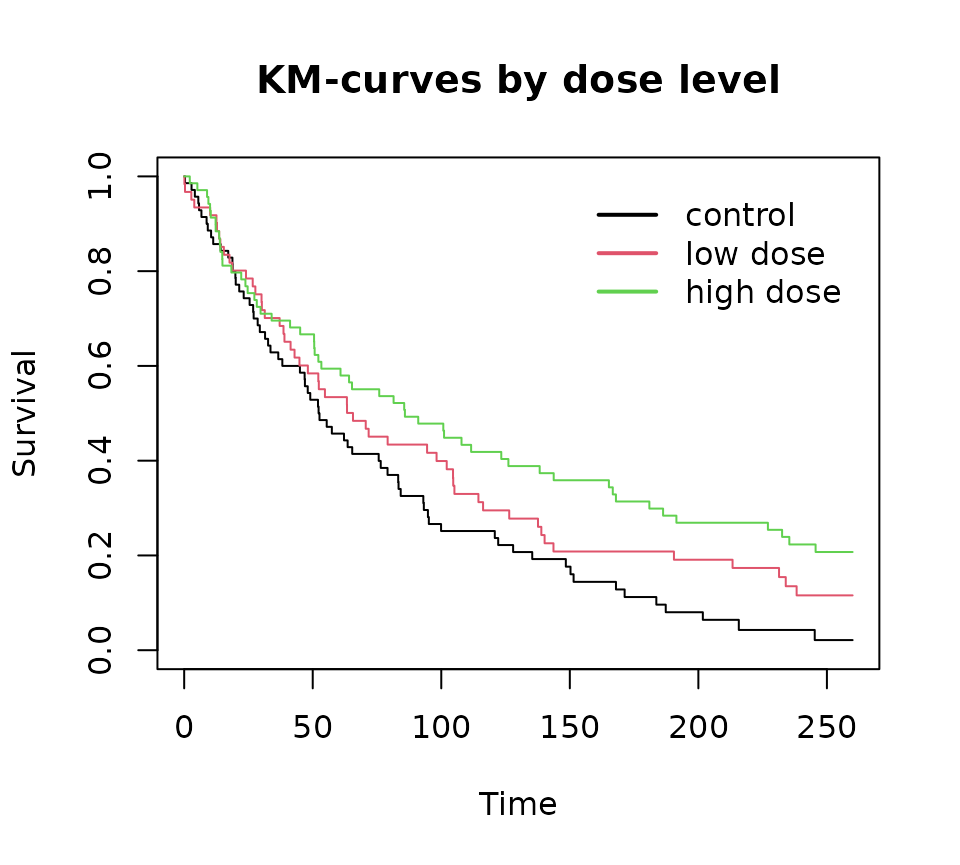
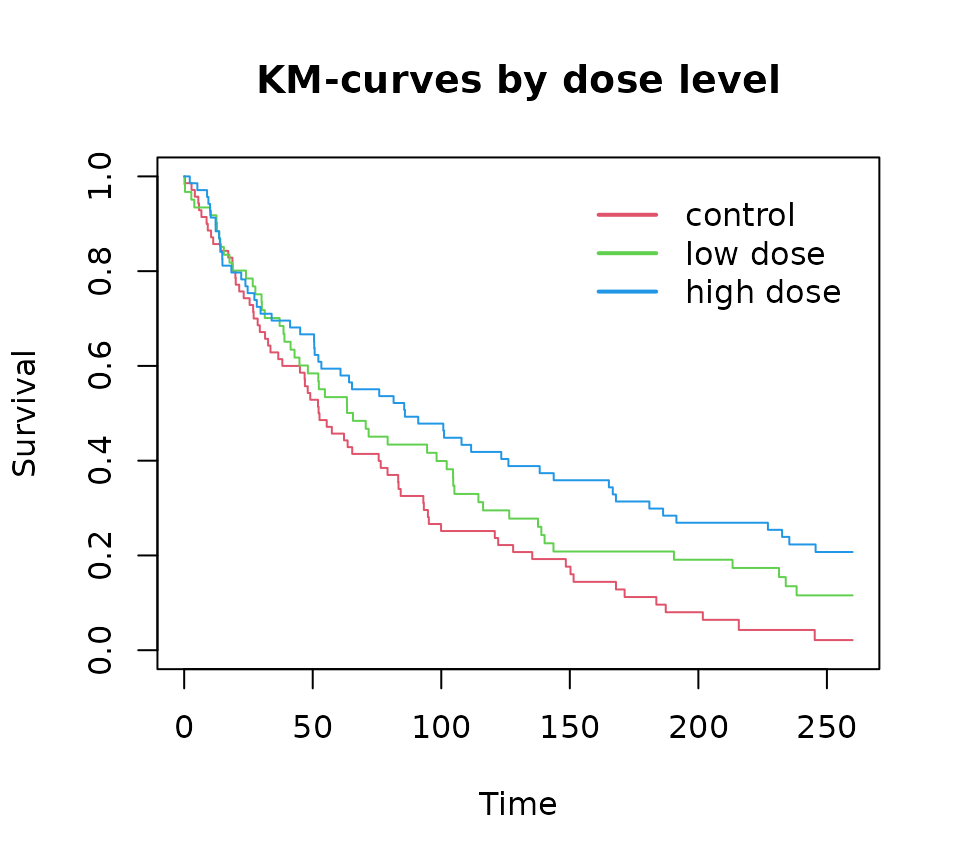
Deploying to gh-pages from @ Novartis/dpasurv@3893182772eef3cf35a96581ddaac438e9e7d16f 🚀

diff --git a/articles/dpa.html b/articles/dpa.html
@@ -83,8 +83,8 @@ time-to-event outcome. A thorough review of the methodology can be found
 in the tutorial paper of <span class="citation">(<a href="#ref-dpasurv">Kormaksson et al. 2024</a>)</span>. In this vignette
 we will outline the modeling framework and define direct, indirect and
 total effects in the context of dynamic path analysis. We then
-demonstrate the the main functionalities of the package, namely
-estimation, inference, and visualization.</p>
+demonstrate the main functionalities of the package, namely estimation,
+inference, and visualization.</p>
 </div>
 <div class="section level2">
 <h2 id="methods">2. Methods<a class="anchor" aria-label="anchor" href="#methods"></a>
@@ -196,9 +196,9 @@ cumtot(t) &amp;= \int_0^t \gamma_1(s)ds \label{eqn:total_effect}. \\
 \end{align}</annotation></semantics></math> One of the most appealing
 features of dynamic path analysis is the following analytical
 decomposition
-<math display="block" xmlns="http://www.w3.org/1998/Math/MathML"><semantics><mrow><mi>c</mi><mi>u</mi><mi>m</mi><mi>t</mi><mi>o</mi><mi>t</mi><mrow><mo stretchy="true" form="prefix">(</mo><mi>t</mi><mo stretchy="true" form="postfix">)</mo></mrow><mo>=</mo><mi>c</mi><mi>u</mi><mi>m</mi><mi>d</mi><mi>i</mi><mi>r</mi><mrow><mo stretchy="true" form="prefix">(</mo><mi>t</mi><mo stretchy="true" form="postfix">)</mo></mrow><mo>+</mo><mi>c</mi><mi>u</mi><mi>m</mi><mi>i</mi><mi>n</mi><mi>d</mi><mrow><mo stretchy="true" form="prefix">(</mo><mi>t</mi><mo stretchy="true" form="postfix">)</mo></mrow><mi>.</mi></mrow><annotation encoding="application/x-tex">
-cumtot(t) = cumdir(t) + cumind(t).
-</annotation></semantics></math></p>
+<math display="block" xmlns="http://www.w3.org/1998/Math/MathML"><semantics><mtable><mtr><mtd columnalign="right" style="text-align: right"><mi>c</mi><mi>u</mi><mi>m</mi><mi>t</mi><mi>o</mi><mi>t</mi><mrow><mo stretchy="true" form="prefix">(</mo><mi>t</mi><mo stretchy="true" form="postfix">)</mo></mrow></mtd><mtd columnalign="left" style="text-align: left"><mo>=</mo><mi>c</mi><mi>u</mi><mi>m</mi><mi>d</mi><mi>i</mi><mi>r</mi><mrow><mo stretchy="true" form="prefix">(</mo><mi>t</mi><mo stretchy="true" form="postfix">)</mo></mrow><mo>+</mo><mi>c</mi><mi>u</mi><mi>m</mi><mi>i</mi><mi>n</mi><mi>d</mi><mrow><mo stretchy="true" form="prefix">(</mo><mi>t</mi><mo stretchy="true" form="postfix">)</mo></mrow><mi>.</mi></mtd></mtr><mtr><mtd columnalign="right" style="text-align: right"></mtd></mtr></mtable><annotation encoding="application/x-tex">\begin{align}
+cumtot(t) &amp;= cumdir(t) + cumind(t). \\
+\end{align}</annotation></semantics></math></p>
 </div>
 <div class="section level3">
 <h3 id="estimation-and-inference">Estimation and inference<a class="anchor" aria-label="anchor" href="#estimation-and-inference"></a>
@@ -267,24 +267,24 @@ treated)</li>
 measured</li>
 <li>
 <em>stop:</em> Time that either marks the beginning of the next
-visit, or censoring (if event=0). Alternatively it marks the time of
+visit, or censoring (if event=0). Alternatively, it marks the time of
 event (if event=1)</li>
 <li>
 <em>event:</em> Binary event indicator</li>
 </ul>
 <p>At each visiting time, start, a new mediator measurement is taken.
 However, the mathematical assumption is that the intervals (start,stop]
-are open on the left and closed on the right, which means that the value
-of the mediator M for subject 1 at week 4 is taken to be 6.74. Under
-this assumption the risk of an event in the interval (start, stop] is
-influenced by the last observed mediator value.</p>
+are open on the left and closed on the right. Under this assumption the
+risk of an event in the interval (start, stop] is influenced by the last
+observed mediator value.</p>
 </div>
 <div class="section level3">
 <h3 id="implementation-in-a-nutshell">Implementation in a nutshell<a class="anchor" aria-label="anchor" href="#implementation-in-a-nutshell"></a>
 </h3>
 <p>Below we see the minimal code required for performing dynamic path
-analysis on <code>simdata</code>. It explores the direct effect of x on
-survival as well as the indirect effect mediated through M:</p>
+analysis on <code>simdata</code>. It explores the direct effect of
+treatment x on survival as well as the indirect effect mediated through
+M:</p>
 <div class="sourceCode" id="cb3"><pre class="downlit sourceCode r">
 <code class="sourceCode R"><span><span class="co"># Perform dynamic path analysis</span></span>
 <span><span class="va">s</span> <span class="op">&lt;-</span> <span class="fu"><a href="../reference/dpa.html">dpa</a></span><span class="op">(</span><span class="fu"><a href="../reference/Surv.html">Surv</a></span><span class="op">(</span><span class="va">start</span>, <span class="va">stop</span>, <span class="va">event</span><span class="op">)</span> <span class="op">~</span> <span class="va">M</span> <span class="op">+</span> <span class="va">x</span>, <span class="fu"><a href="https://rdrr.io/r/base/list.html" class="external-link">list</a></span><span class="op">(</span><span class="va">M</span> <span class="op">~</span> <span class="va">x</span><span class="op">)</span>, id <span class="op">=</span> <span class="st">"subject"</span>, data <span class="op">=</span> <span class="va">simdata</span>, boot.n <span class="op">=</span> <span class="fl">500</span><span class="op">)</span></span>
@@ -317,16 +317,15 @@ depth analysis of <code>simdata</code>.</p>
 <p>Firstly, we note that there is a dose response trend when looking at
 longitudinal trends in the subject mediator profiles:</p>
 <div class="sourceCode" id="cb4"><pre class="downlit sourceCode r">
-<code class="sourceCode R"><span><span class="fu"><a href="https://ggplot2.tidyverse.org/reference/ggplot.html" class="external-link">ggplot</a></span><span class="op">(</span>mapping<span class="op">=</span><span class="fu"><a href="https://ggplot2.tidyverse.org/reference/aes.html" class="external-link">aes</a></span><span class="op">(</span>x <span class="op">=</span> <span class="va">start</span>, y <span class="op">=</span> <span class="va">M</span>, group<span class="op">=</span><span class="va">dose</span>, colour<span class="op">=</span><span class="va">dose</span><span class="op">)</span>, data<span class="op">=</span><span class="va">simdata</span><span class="op">)</span> <span class="op">+</span> <span class="fu"><a href="https://ggplot2.tidyverse.org/reference/geom_smooth.html" class="external-link">geom_smooth</a></span><span class="op">(</span><span class="op">)</span></span></code></pre></div>
+<code class="sourceCode R"><span><span class="fu"><a href="https://ggplot2.tidyverse.org/reference/ggplot.html" class="external-link">ggplot</a></span><span class="op">(</span>mapping<span class="op">=</span><span class="fu"><a href="https://ggplot2.tidyverse.org/reference/aes.html" class="external-link">aes</a></span><span class="op">(</span>x <span class="op">=</span> <span class="va">start</span>, y <span class="op">=</span> <span class="va">M</span>, group<span class="op">=</span><span class="va">dose</span><span class="op">)</span>, data<span class="op">=</span><span class="va">simdata</span><span class="op">)</span> <span class="op">+</span> <span class="fu"><a href="https://ggplot2.tidyverse.org/reference/geom_smooth.html" class="external-link">geom_smooth</a></span><span class="op">(</span><span class="fu"><a href="https://ggplot2.tidyverse.org/reference/aes.html" class="external-link">aes</a></span><span class="op">(</span>colour<span class="op">=</span><span class="va">dose</span><span class="op">)</span><span class="op">)</span></span></code></pre></div>
 <p><img src="dpa_files/figure-html/unnamed-chunk-5-1.png" width="480"></p>
 <p>The higher the dose, the higher the average mediator value is.</p>
 <p>We also note that there is a dose response trend when looking at
 association between dose levels and survival</p>
 <div class="sourceCode" id="cb5"><pre class="downlit sourceCode r">
 <code class="sourceCode R"><span><span class="va">fit</span> <span class="op">&lt;-</span> <span class="fu">survival</span><span class="fu">::</span><span class="fu"><a href="https://rdrr.io/pkg/survival/man/survfit.html" class="external-link">survfit</a></span><span class="op">(</span><span class="fu"><a href="../reference/Surv.html">Surv</a></span><span class="op">(</span><span class="va">start</span>, <span class="va">stop</span>, <span class="va">event</span><span class="op">)</span> <span class="op">~</span> <span class="va">dose</span>, data<span class="op">=</span><span class="va">simdata</span><span class="op">)</span></span>
-<span><span class="fu"><a href="https://rdrr.io/r/graphics/plot.default.html" class="external-link">plot</a></span><span class="op">(</span><span class="va">fit</span>, col<span class="op">=</span><span class="fl">1</span><span class="op">:</span><span class="fl">3</span>, xlab<span class="op">=</span><span class="st">"Time"</span>, ylab<span class="op">=</span><span class="st">"Survival"</span>, main<span class="op">=</span><span class="st">"KM-curves by dose level"</span><span class="op">)</span></span>
-<span><span class="fu"><a href="https://rdrr.io/r/graphics/legend.html" class="external-link">legend</a></span><span class="op">(</span><span class="fl">150</span>, <span class="fl">1</span>, <span class="fu"><a href="https://rdrr.io/r/base/c.html" class="external-link">c</a></span><span class="op">(</span><span class="st">"control"</span>, <span class="st">"low dose"</span>, <span class="st">"high dose"</span><span class="op">)</span>,</span>
-<span>col<span class="op">=</span><span class="fl">1</span><span class="op">:</span><span class="fl">3</span>, lwd<span class="op">=</span><span class="fl">2</span>, bty<span class="op">=</span><span class="st">'n'</span><span class="op">)</span></span></code></pre></div>
+<span><span class="fu"><a href="https://rdrr.io/r/graphics/plot.default.html" class="external-link">plot</a></span><span class="op">(</span><span class="va">fit</span>, col<span class="op">=</span><span class="fl">2</span><span class="op">:</span><span class="fl">4</span>, xlab<span class="op">=</span><span class="st">"Time"</span>, ylab<span class="op">=</span><span class="st">"Survival"</span>, main<span class="op">=</span><span class="st">"KM-curves by dose level"</span><span class="op">)</span></span>
+<span><span class="fu"><a href="https://rdrr.io/r/graphics/legend.html" class="external-link">legend</a></span><span class="op">(</span><span class="fl">150</span>, <span class="fl">1</span>, <span class="fu"><a href="https://rdrr.io/r/base/c.html" class="external-link">c</a></span><span class="op">(</span><span class="st">"control"</span>, <span class="st">"low dose"</span>, <span class="st">"high dose"</span><span class="op">)</span>, col<span class="op">=</span><span class="fl">2</span><span class="op">:</span><span class="fl">4</span>, lwd<span class="op">=</span><span class="fl">2</span>, bty<span class="op">=</span><span class="st">'n'</span><span class="op">)</span></span></code></pre></div>
 <p><img src="dpa_files/figure-html/unnamed-chunk-6-1.png" width="480"></p>
 <p>A Cox model with dose and mediator as covariates reveals a
 significant hazard ratio for high dose, but only a trend for the low

diff --git a/reference/simdata.html b/reference/simdata.html
@@ -1,5 +1,5 @@
 <!DOCTYPE html>
-<!-- Generated by pkgdown: do not edit by hand --><html lang="en"><head><meta http-equiv="Content-Type" content="text/html; charset=UTF-8"><meta charset="utf-8"><meta http-equiv="X-UA-Compatible" content="IE=edge"><meta name="viewport" content="width=device-width, initial-scale=1, shrink-to-fit=no"><title>This is a simulated data set in the (start,stop] format. The subject column refers to subject ID and note that there are multiple rows per subject. The columns x and dose correspond to a treatment and dose variable respectively, while M refers to the longitudinal mediator values. The triplet (start, stop, event) corresponds to the time-to-event data in the required (start,stop] format. — simdata • dpasurv</title><script src="../deps/jquery-3.6.0/jquery-3.6.0.min.js"></script><meta name="viewport" content="width=device-width, initial-scale=1, shrink-to-fit=no"><link href="../deps/bootstrap-5.3.1/bootstrap.min.css" rel="stylesheet"><script src="../deps/bootstrap-5.3.1/bootstrap.bundle.min.js"></script><link href="../deps/font-awesome-6.4.2/css/all.min.css" rel="stylesheet"><link href="../deps/font-awesome-6.4.2/css/v4-shims.min.css" rel="stylesheet"><script src="../deps/headroom-0.11.0/headroom.min.js"></script><script src="../deps/headroom-0.11.0/jQuery.headroom.min.js"></script><script src="../deps/bootstrap-toc-1.0.1/bootstrap-toc.min.js"></script><script src="../deps/clipboard.js-2.0.11/clipboard.min.js"></script><script src="../deps/search-1.0.0/autocomplete.jquery.min.js"></script><script src="../deps/search-1.0.0/fuse.min.js"></script><script src="../deps/search-1.0.0/mark.min.js"></script><!-- pkgdown --><script src="../pkgdown.js"></script><meta property="og:title" content="This is a simulated data set in the (start,stop] format. The subject column refers to subject ID and note that there are multiple rows per subject. The columns x and dose correspond to a treatment and dose variable respectively, while M refers to the longitudinal mediator values. The triplet (start, stop, event) corresponds to the time-to-event data in the required (start,stop] format. — simdata"><meta name="description" content="This is a simulated data set in the (start,stop] format. The subject column
+<!-- Generated by pkgdown: do not edit by hand --><html lang="en"><head><meta http-equiv="Content-Type" content="text/html; charset=UTF-8"><meta charset="utf-8"><meta http-equiv="X-UA-Compatible" content="IE=edge"><meta name="viewport" content="width=device-width, initial-scale=1, shrink-to-fit=no"><title>Simulated data — simdata • dpasurv</title><script src="../deps/jquery-3.6.0/jquery-3.6.0.min.js"></script><meta name="viewport" content="width=device-width, initial-scale=1, shrink-to-fit=no"><link href="../deps/bootstrap-5.3.1/bootstrap.min.css" rel="stylesheet"><script src="../deps/bootstrap-5.3.1/bootstrap.bundle.min.js"></script><link href="../deps/font-awesome-6.4.2/css/all.min.css" rel="stylesheet"><link href="../deps/font-awesome-6.4.2/css/v4-shims.min.css" rel="stylesheet"><script src="../deps/headroom-0.11.0/headroom.min.js"></script><script src="../deps/headroom-0.11.0/jQuery.headroom.min.js"></script><script src="../deps/bootstrap-toc-1.0.1/bootstrap-toc.min.js"></script><script src="../deps/clipboard.js-2.0.11/clipboard.min.js"></script><script src="../deps/search-1.0.0/autocomplete.jquery.min.js"></script><script src="../deps/search-1.0.0/fuse.min.js"></script><script src="../deps/search-1.0.0/mark.min.js"></script><!-- pkgdown --><script src="../pkgdown.js"></script><meta property="og:title" content="Simulated data — simdata"><meta name="description" content="This is a simulated data set in the (start,stop] format. The subject column
 refers to subject ID and note that there are multiple rows per subject.
 The columns x and dose correspond to a treatment and dose variable respectively, while
 M refers to the longitudinal mediator values. The triplet (start, stop, event)
@@ -38,7 +38,7 @@ corresponds to the time-to-event data in the required (start,stop] format."><met
 </nav><div class="container template-reference-topic">
 <div class="row">
   <main id="main" class="col-md-9"><div class="page-header">
-      <img src="../logo.png" class="logo" alt=""><h1>This is a simulated data set in the (start,stop] format. The subject column refers to subject ID and note that there are multiple rows per subject. The columns x and dose correspond to a treatment and dose variable respectively, while M refers to the longitudinal mediator values. The triplet (start, stop, event) corresponds to the time-to-event data in the required (start,stop] format.</h1>
+      <img src="../logo.png" class="logo" alt=""><h1>Simulated data</h1>
 
       <div class="d-none name"><code>simdata.Rd</code></div>
     </div>

diff --git a/index.html b/index.html
@@ -74,11 +74,11 @@
 <h2 id="installation">Installation<a class="anchor" aria-label="anchor" href="#installation"></a>
 </h2>
 <div class="sourceCode" id="cb1"><pre class="downlit sourceCode r">
-<code class="sourceCode R"><span><span class="co"># The easiest way to install dpasurv is to run (assuming devtools package is already installed):</span></span>
-<span><span class="fu">devtools</span><span class="fu">::</span><span class="fu">install_github</span><span class="op">(</span><span class="st">"Novartis/dpasurv"</span><span class="op">)</span></span>
+<code class="sourceCode R"><span><span class="co"># To install the most recent stable version of dpasurv:</span></span>
+<span><span class="fu"><a href="https://rdrr.io/r/utils/install.packages.html" class="external-link">install.packages</a></span><span class="op">(</span><span class="st">"dpasurv"</span><span class="op">)</span></span>
 <span></span>
-<span><span class="co"># If devtools package is not installed, then prior to above you may run:</span></span>
-<span><span class="fu"><a href="https://rdrr.io/r/utils/install.packages.html" class="external-link">install.packages</a></span><span class="op">(</span><span class="st">"devtools"</span><span class="op">)</span></span></code></pre></div>
+<span><span class="co"># To get bug fixes or new features, install the development version:</span></span>
+<span><span class="fu">devtools</span><span class="fu">::</span><span class="fu">install_github</span><span class="op">(</span><span class="st">"Novartis/dpasurv"</span><span class="op">)</span></span></code></pre></div>
 </div>
 <div class="section level2">
 <h2 id="usage">Usage<a class="anchor" aria-label="anchor" href="#usage"></a>
@@ -107,7 +107,7 @@
 <div class="section level2">
 <h2 id="citation">Citation<a class="anchor" aria-label="anchor" href="#citation"></a>
 </h2>
-<p>The dpasurv package was published on github in parallel with the following manuscript:</p>
+<p>The dpasurv package was created as supplementary code for the following manuscript:</p>
 <div class="sourceCode" id="cb3"><pre class="sourceCode r"><code class="sourceCode r"><span id="cb3-1"><a href="#cb3-1" tabindex="-1"></a><span class="sc">@</span>article{dpasurv,</span>
 <span id="cb3-2"><a href="#cb3-2" tabindex="-1"></a>  title<span class="ot">=</span>{Dynamic path analysis <span class="cf">for</span> exploring treatment effect mediation processes <span class="cf">in</span> clinical trials with time<span class="sc">-</span>to<span class="sc">-</span>event endpoints},</span>
 <span id="cb3-3"><a href="#cb3-3" tabindex="-1"></a>  author<span class="ot">=</span>{Kormaksson, M. and Lange, M. R. and Demanse, D. and Strohmaier, S. and Duan, J. and Xie, Q. and Carbini, M. and Bossen, C. and Guettner, A. and Maniero, A.},</span>

diff --git a/authors.html b/authors.html
@@ -62,16 +62,15 @@
       <h2 id="citation">Citation</h2>
       <p></p>
 
-      <p>Kormaksson M, Strohmaier S, Lange M, Demanse D (2024).
-<em>dpasurv: Dynamic Path Analysis of Survival Data via Aalen's Additive Hazards Model</em>.
-R package version 0.1.0, <a href="http://opensource.nibr.com/dpasurv/">http://opensource.nibr.com/dpasurv/</a>.
+      <p>Kormaksson M, Lange M, Demanse D, Strohmaier S, Duan J, Xie Q, Carbini M, Bossen C, Guettner A, Maniero A (2024).
+“Dynamic path analysis for exploring treatment effect mediation processes in clinical trials with time-to-event endpoints.”
+<em>(submitted)</em>.
 </p>
-      <pre>@Manual{,
-  title = {dpasurv: Dynamic Path Analysis of Survival Data via Aalen's Additive Hazards Model},
-  author = {Matthias Kormaksson and Susanne Strohmaier and Markus Lange and David Demanse},
+      <pre>@Article{,
+  title = {Dynamic path analysis for exploring treatment effect mediation processes in clinical trials with time-to-event endpoints},
+  author = {Matthias Kormaksson and Markus Lange and David Demanse and Susanne Strohmaier and Jiawei Duan and Qing Xie and Mariana Carbini and Claudia Bossen and Achim Guettner and Antonella Maniero},
+  journal = {(submitted)},
   year = {2024},
-  note = {R package version 0.1.0},
-  url = {http://opensource.nibr.com/dpasurv/},
 }</pre>
     </div>
 

diff --git a/reference/ggplot.effect.html b/reference/ggplot.effect.html
@@ -45,8 +45,6 @@
 <span>  <span class="va">object</span>,</span>
 <span>  relative <span class="op">=</span> <span class="cn">FALSE</span>,</span>
 <span>  titles <span class="op">=</span> <span class="cn">NULL</span>,</span>
-<span>  yintercept <span class="op">=</span> <span class="fl">0</span>,</span>
-<span>  linetype <span class="op">=</span> <span class="st">"dashed"</span>,</span>
 <span>  x_label <span class="op">=</span> <span class="st">"Time"</span>,</span>
 <span>  y_label <span class="op">=</span> <span class="cn">NULL</span></span>
 <span><span class="op">)</span></span></code></pre></div>
@@ -67,14 +65,6 @@
 <dt id="arg-titles">titles<a class="anchor" aria-label="anchor" href="#arg-titles"></a></dt>
 <dd><p>If NULL, function will automatically generate. Otherwise character vector of length equal to number of
 elements in object list</p></dd>
-
-
-<dt id="arg-yintercept">yintercept<a class="anchor" aria-label="anchor" href="#arg-yintercept"></a></dt>
-<dd><p>y-intercept of horizontal line. Defaults to 0.</p></dd>
-
-
-<dt id="arg-linetype">linetype<a class="anchor" aria-label="anchor" href="#arg-linetype"></a></dt>
-<dd><p>type of horinzontal line to plot. Defaults to "dashed".</p></dd>
 
 
 <dt id="arg-x-label">x_label<a class="anchor" aria-label="anchor" href="#arg-x-label"></a></dt>

diff --git a/reference/add.ci.html b/reference/add.ci.html
@@ -41,7 +41,7 @@
 
     <div class="section level2">
     <h2 id="ref-usage">Usage<a class="anchor" aria-label="anchor" href="#ref-usage"></a></h2>
-    <div class="sourceCode"><pre class="sourceCode r"><code><span><span class="fu">add.ci</span><span class="op">(</span><span class="va">object</span>, alpha <span class="op">=</span> <span class="fl">0.05</span><span class="op">)</span></span></code></pre></div>
+    <div class="sourceCode"><pre class="sourceCode r"><code><span><span class="fu">add.ci</span><span class="op">(</span><span class="va">object</span>, <span class="va">alpha</span><span class="op">)</span></span></code></pre></div>
     </div>
 
     <div class="section level2">
@@ -49,11 +49,11 @@
 
 
 <dl><dt id="arg-object">object<a class="anchor" aria-label="anchor" href="#arg-object"></a></dt>
-<dd><p>direct or indirect effect of interest (as obtained by call to the function <code>effect</code>).</p></dd>
+<dd><p>direct or indirect effect of interest (as obtained within a call to the function <code>effect</code>).</p></dd>
 
 
 <dt id="arg-alpha">alpha<a class="anchor" aria-label="anchor" href="#arg-alpha"></a></dt>
-<dd><p>The confidence level, defaults to alpha=0.05</p></dd>
+<dd><p>the confidence level</p></dd>
 
 </dl></div>
     <div class="section level2">

diff --git a/reference/effect.html b/reference/effect.html
@@ -68,7 +68,7 @@ for indirect effects of covariate on mediator2 mediated through mediator1.</p></
     <h2 id="value">Value<a class="anchor" aria-label="anchor" href="#value"></a></h2>
     <p>object of class "effect" with following fields:</p><dl><dt>coefs</dt>
 <dd><p>data.frame containing the unique event times along with the calculated effect coefficients. For effects corresponding to a continuous variable this results in a
-single effect column. For factors with n.levels categories the data.frame contains n.levels-1 effect columns each representing the effect coefficients of a particular factor level (as compared to reference level).</p></dd>
+single effect column. For factors with n.levels categories the data.frame contains n.levels-1 effect columns each representing the effect coefficient of a particular factor level (as compared to reference level).</p></dd>
 
 <dt>lower</dt>
 <dd><p>data.frame of same dimension as coefs containing the lower confidence bands of the effects stored in coefs</p></dd>

diff --git a/reference/index.html b/reference/index.html
@@ -70,16 +70,10 @@
         <dd>Plot effects from dynamic path analysis along with bootstrap confidence bands</dd>
       </dl><dl><dt>
 
-          <code><a href="resolve.ties.html">resolve.ties()</a></code>
-
-        </dt>
-        <dd>Resolves ties in event times by adding a small random noise to the duplicates</dd>
-      </dl><dl><dt>
-
           <code><a href="simdata.html">simdata</a></code>
 
         </dt>
-        <dd>This is a simulated data set in the (start,stop] format. The subject column refers to subject ID and note that there are multiple rows per subject. The columns x and dose correspond to a treatment and dose variable respectively, while M refers to the longitudinal mediator values. The triplet (start, stop, event) corresponds to the time-to-event data in the required (start,stop] format.</dd>
+        <dd>Simulated data</dd>
       </dl><dl><dt>
 
           <code><a href="sum.effect.html">sum(<i>&lt;effect&gt;</i>)</a></code>

diff --git a/reference/dpa.html b/reference/dpa.html
@@ -107,6 +107,10 @@ calculation of direct, indirect and total effects along with bootstrap confidenc
 <dd><p>a list keeping track of responses and covariates of each of the out.formula and mediator.formulas. Also keeps
 track of all variable types and level names in case of factors.</p></dd>
 
+  <dt>aalen</dt>
+<dd><p>Object storing information pertaining to the Aalen's additive model fit. Object is of class "aalen"
+  if method="timereg", and of class "aareg" if method="aareg".</p></dd>
+
 
 </dl></div>
     <div class="section level2">

diff --git a/reference/Areg.html b/reference/Areg.html
@@ -61,6 +61,10 @@
 any mediators and baseline covariates.</p></dd>
 
 
+<dt id="arg-method">method<a class="anchor" aria-label="anchor" href="#arg-method"></a></dt>
+<dd><p>passed from dpa call, defaults to "timereg", otherwise "aareg"</p></dd>
+
+
 <dt id="arg--">...<a class="anchor" aria-label="anchor" href="#arg--"></a></dt>
 <dd><p>other parameters passed to Aalen's additive hazards regression function "timereg::aalen()"</p></dd>
 
